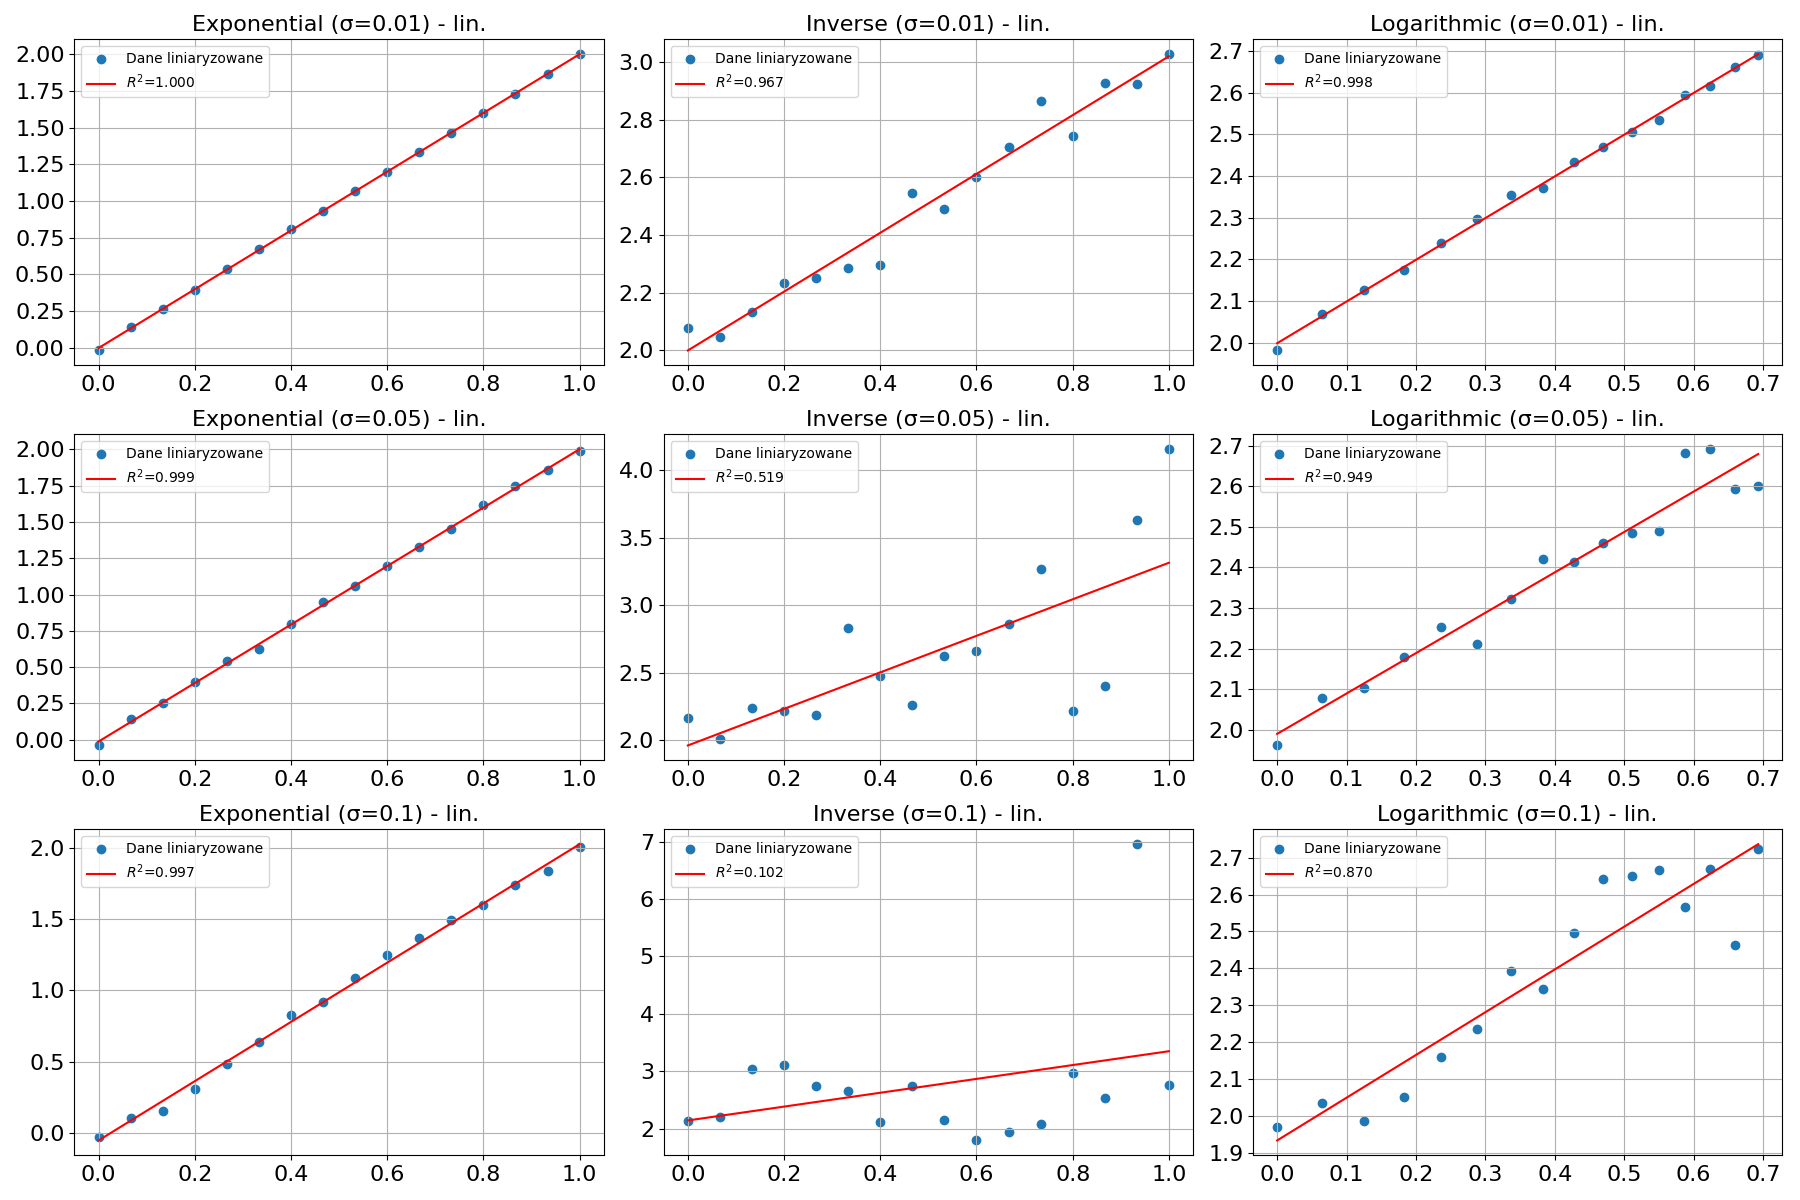
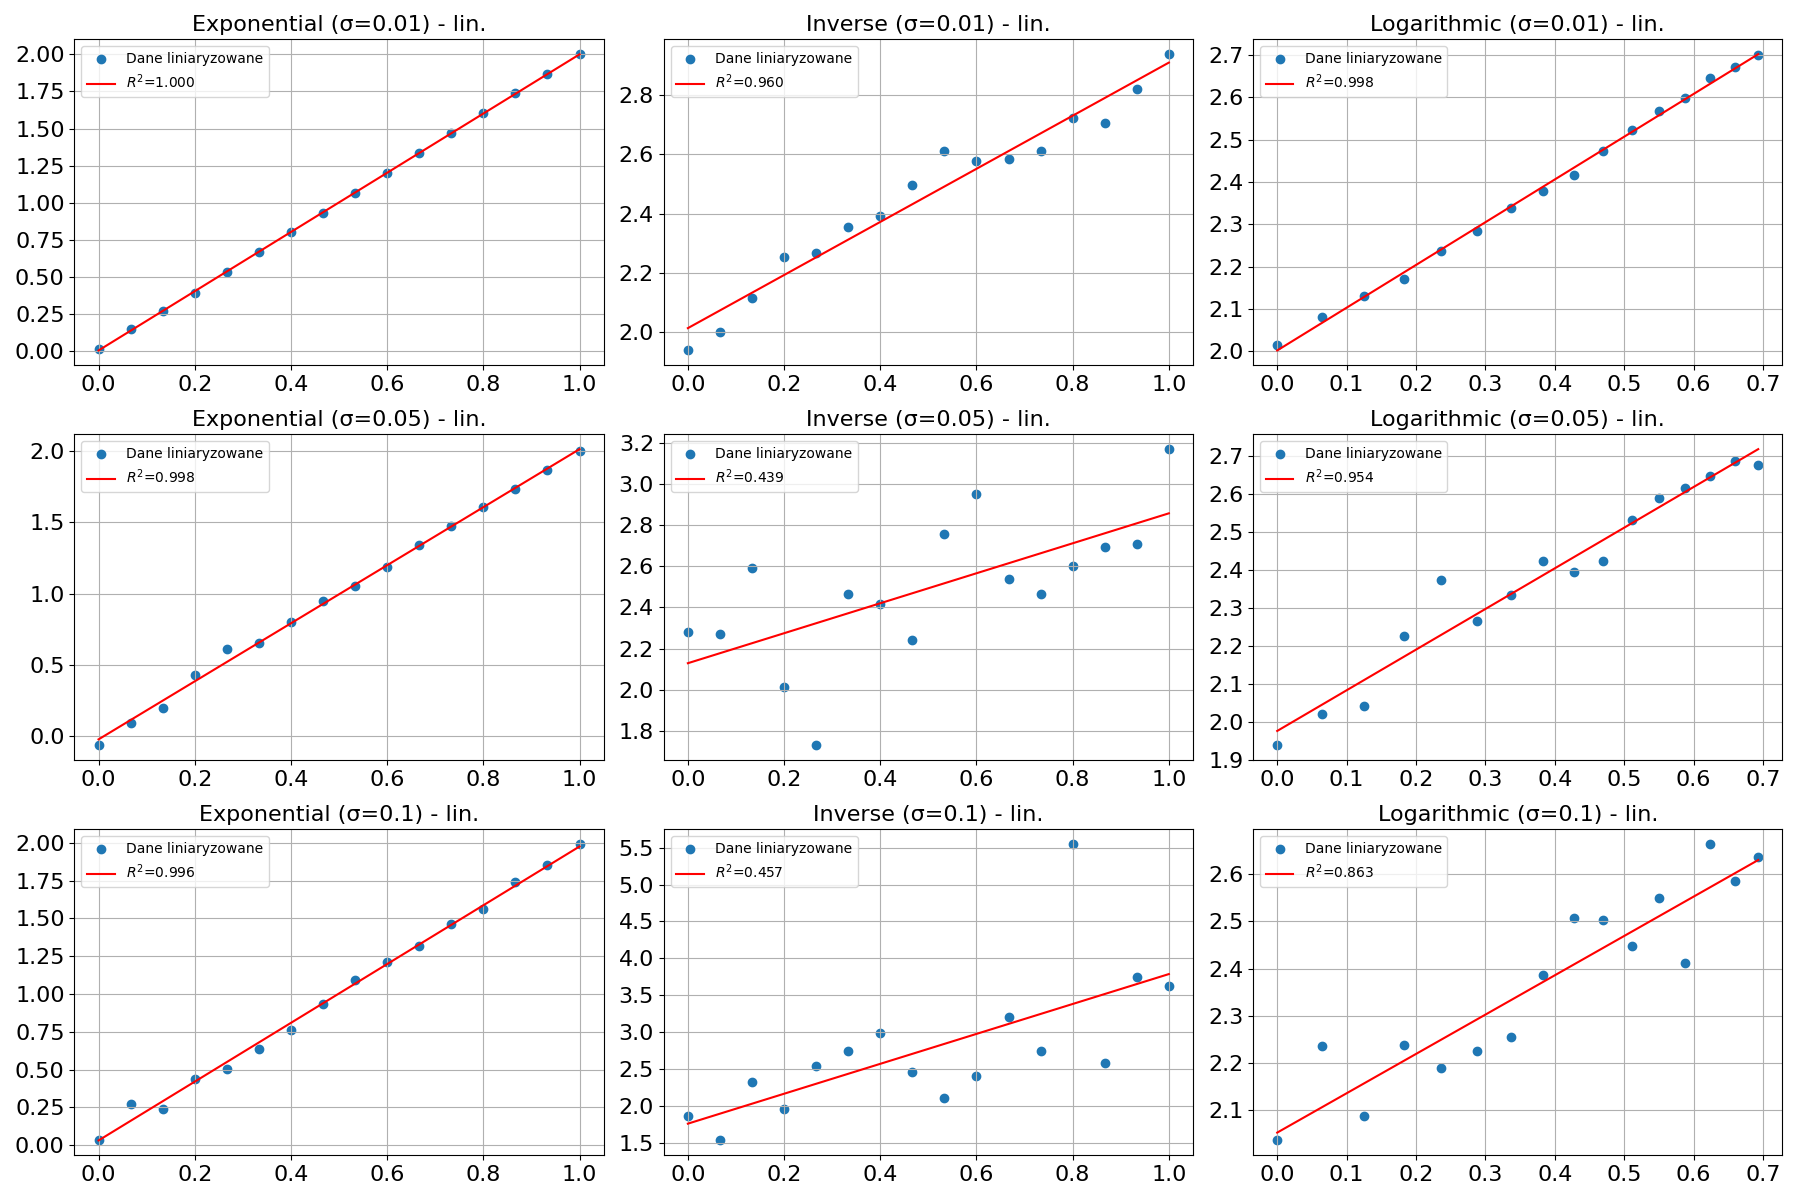
update readme with statistics

diff --git a/README.md b/README.md
@@ -139,5 +139,53 @@ $\frac{1}{y} = \frac{[x]}{u} + \frac{b}{u} \approx \frac{[x]}{a} + \frac{b}{a} +
 
 $ln(y) \approx ln(a) + b \cdot [x] + noise'$
 
+# Statystyki
+Przykłądowe statystyki można otrzymać za pomocą modułu:
+```
+generate_data.py
+```
+Można za pomocą niego uzyskać przykładowe funkcje nielinowe e.g.
+
+<p align="left">
+  <img src="./data.png" alt="data" width="450"/>
+</p>
+
+Następnie, po przekształceniu, ich liniową postać
+
+<p align="left">
+  <img src="./data_linear.png" alt="data" width="450"/>
+</p>
+
+Porównanie ich wyglądu ze względu na poziom dodanego szumu (poniżej akurat z dystrybucji Gaussa). Przed linearyzacją
+
+<p align="left">
+  <img src="./original_all_sigmas.png" alt="data" width="700"/>
+</p>
+
+Oraz po linearyzacji
+
+<p align="left">
+  <img src="./linearized_all_sigmas.png" alt="data" width="700"/>
+</p>
+
+Również otzymamy informację na temat reszt regresji liniowej
+
+<p align="left">
+  <img src="./residuals_all_sigmas.png" alt="data" width="700"/>
+</p>
+
+Wielokrotne wyznaczanie metryk modelu, w celu wyznaczenia statstyk można uzyskać za pomocą:
+```
+statistics_linear.py
+```
+
+Przykładowe wyniki
+
+|$\text{type}$|$mean \space R^2$|$R^2 \space std$|
+|---|---|---|
+|log|0.997|0.0005|
+|inv|0.985|0.0030|
+|exp|0.999|0.0002|
+
 # Literatura
 > Scardapane, S. (2024, April 26). Alice’s Adventures in a Differentiable Wonderland -- Volume I, A Tour of the Land. arXiv.org. https://arxiv.org/abs/2404.17625
